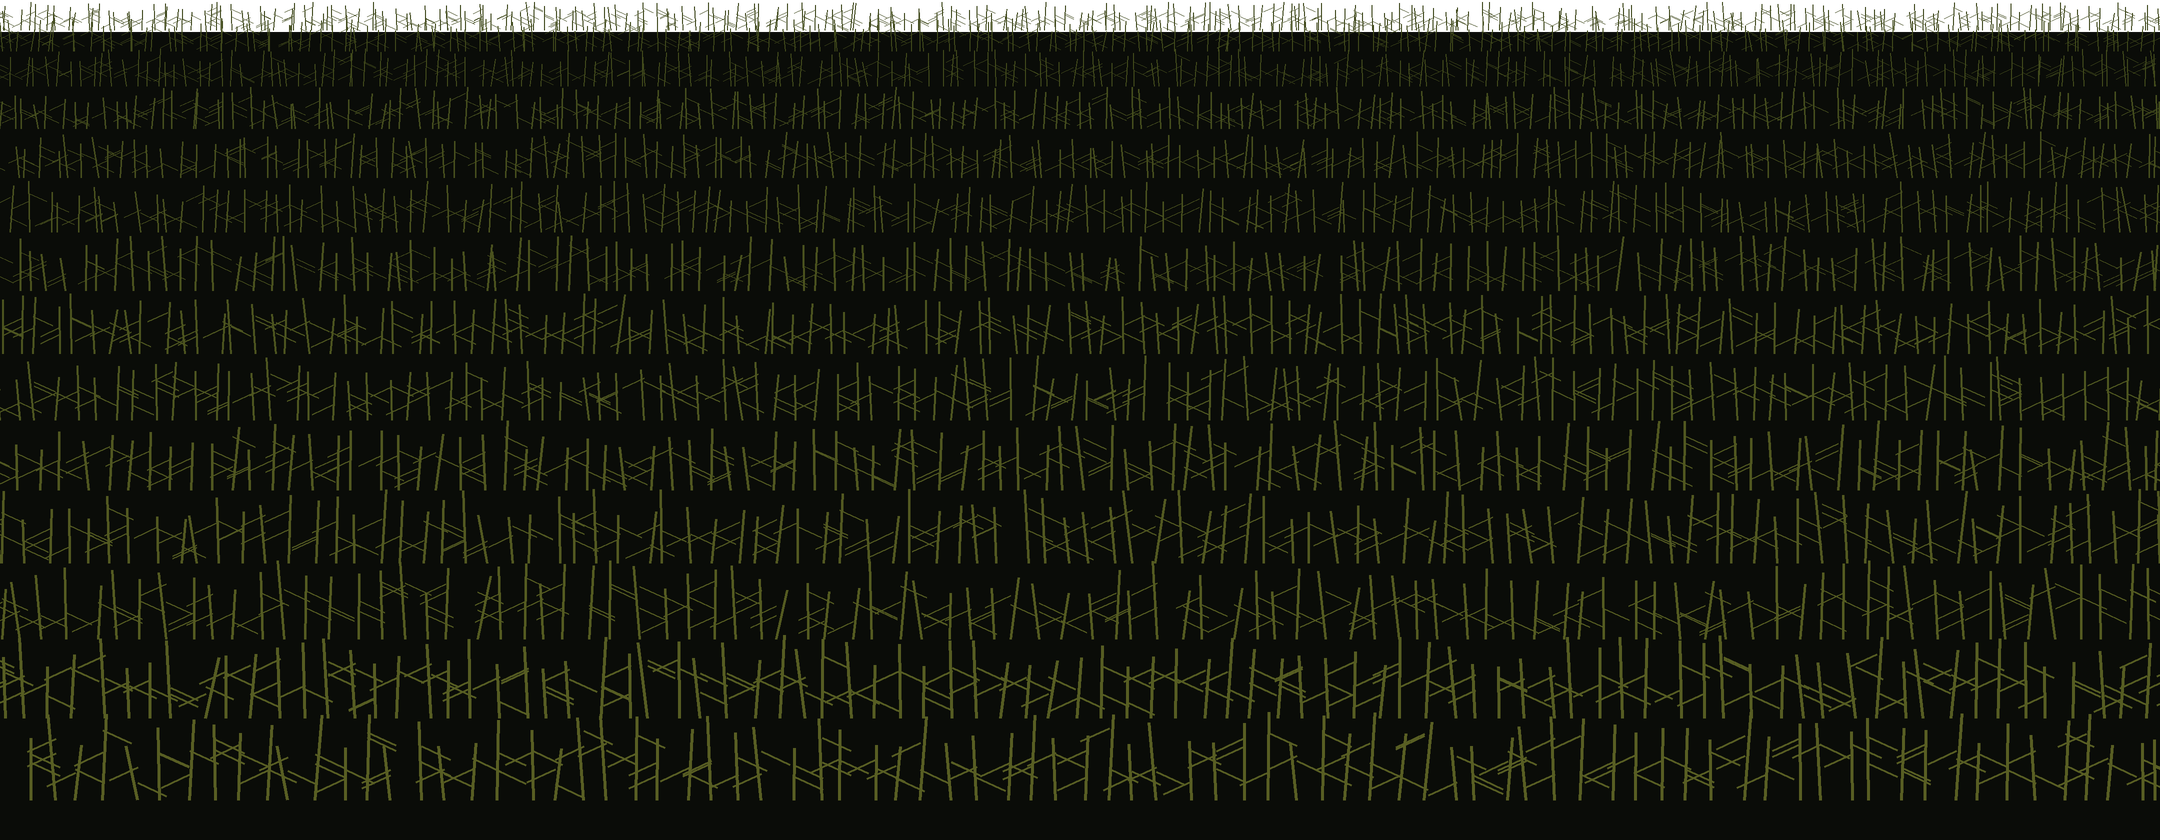
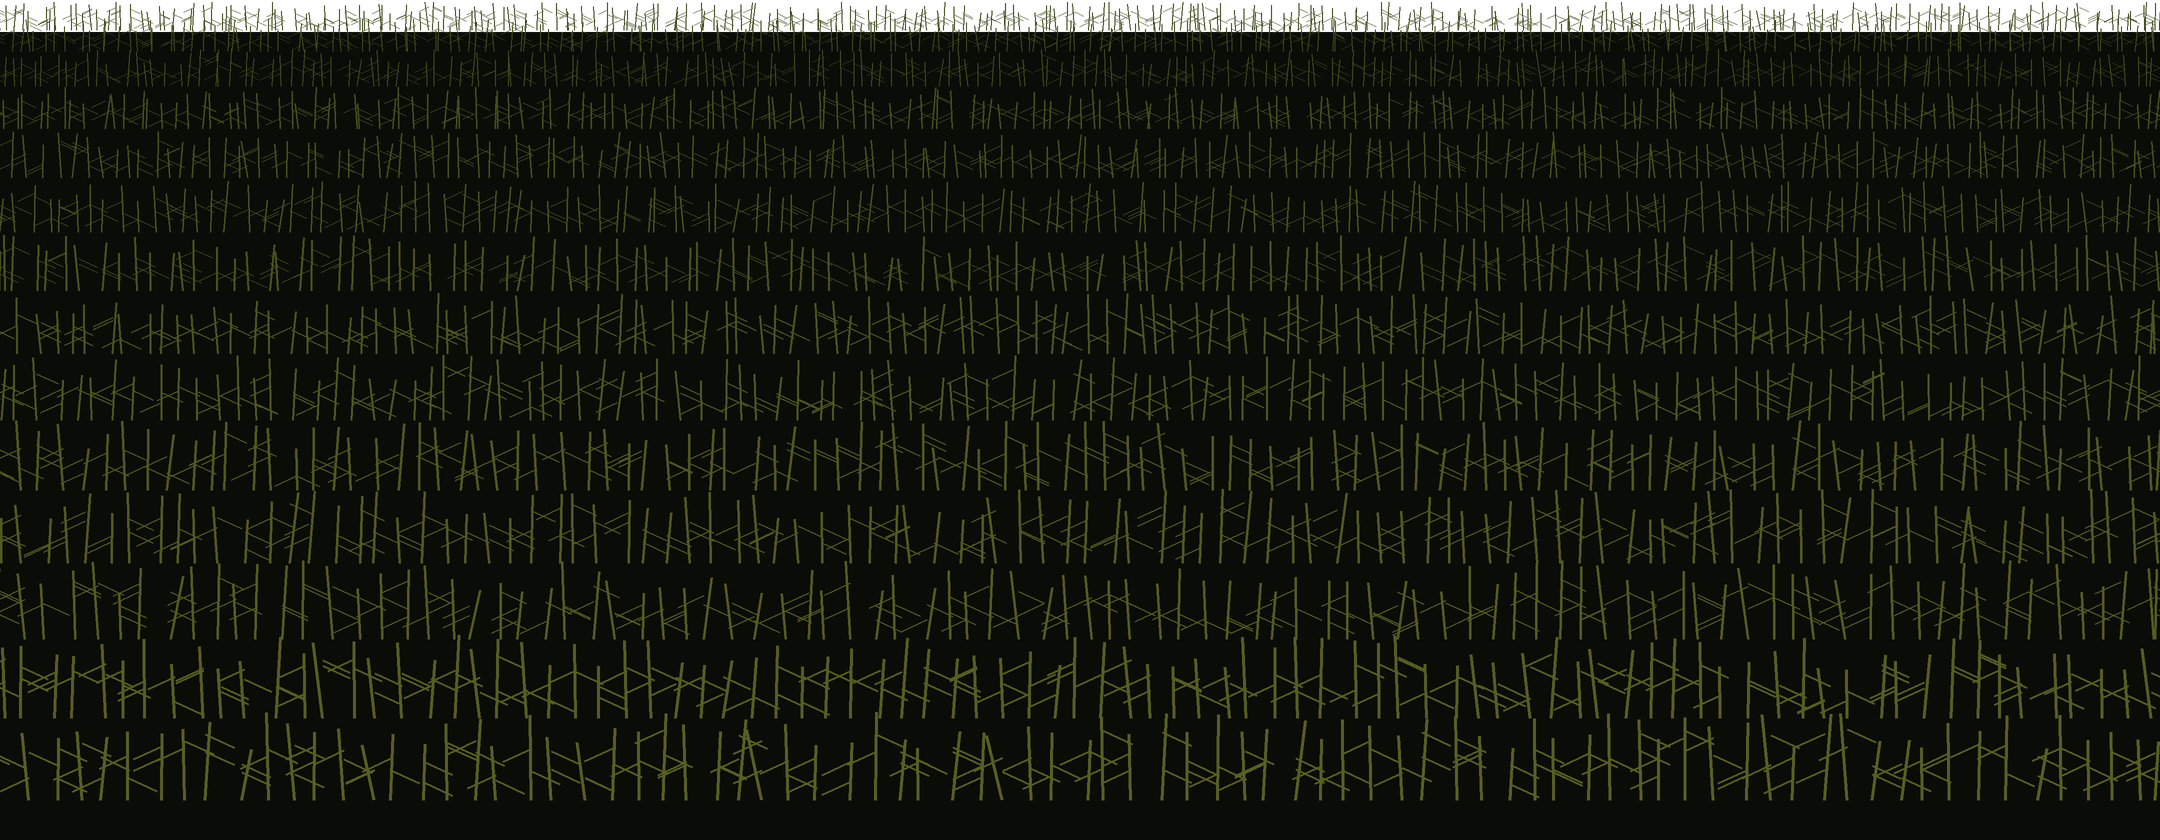
ig: 허수아비를 달빛에 밝게(테두리·지푸라기·뒤 번짐)
Claude-Session: https://claude.ai/code/session_01RCovqCTjag3WJkZFny7UQu

Changed region(s): [[0.0, 0.0, 1.0, 0.9595]]

diff --git a/tools/ig/templates/reel-scare.html b/tools/ig/templates/reel-scare.html
@@ -36,7 +36,8 @@ html,body{width:1080px;height:1920px;background:#000;overflow:hidden;font-family
 .hook .b{font-size:92px}.meta .t{font-family:M;color:#EFE3CC;letter-spacing:.14em}
 
 .world{position:absolute;inset:0;animation:dimw .8s 1.55s forwards}
-@keyframes dimw{to{filter:brightness(.55)}}
+@keyframes dimw{to{filter:brightness(.62)}}
+.sclight{position:absolute;inset:0;background:radial-gradient(ellipse 300px 420px at 70.5% 41%,rgba(255,236,190,.22),transparent 70%);mix-blend-mode:screen;z-index:2;pointer-events:none}
 .sky{position:absolute;inset:0;background:url(../assets/reel-scare-sky.jpg) center/cover;transform-origin:70% 40%;animation:zoom3 10.5s linear forwards}
 @keyframes zoom3{from{transform:scale(1.02)}to{transform:scale(1.18)}}
 .strip{position:absolute;left:0;right:0;background-repeat:repeat-x;animation:run var(--sp) linear infinite}
@@ -58,7 +59,7 @@ html,body{width:1080px;height:1920px;background:#000;overflow:hidden;font-family
 @keyframes shk{0%{translate:0 0}25%{translate:-14px 8px}50%{translate:12px -10px}75%{translate:-8px -6px}}
 .crashfl{position:absolute;inset:0;background:#fff4dc;opacity:0;z-index:21}
 @keyframes fp{0%{opacity:0}15%{opacity:1}100%{opacity:0}}@keyframes fall{0%{opacity:0;transform:translate(0,0) rotate(0)}8%{opacity:1}100%{opacity:.9;transform:translate(120px,2000px) rotate(540deg)}}</style></head><body><div class="stage">
-<div class="world" id="world"><div class="sky"></div><div class="strip far"></div><div class="strip road"></div><div class="beam"></div><div class="car"></div><div class="smoke"></div><div class="smoke" style="left:300px;animation-delay:.9s"></div><div class="strip near"></div></div><div class="crashfl" id="cf"></div><script>setTimeout(()=>{document.querySelector(".car").style.transition="transform .15s";document.querySelector(".car").style.animation="none";document.querySelector(".car").style.transform="rotate(-6deg) translate(-20px,-6px)"},4550);setTimeout(()=>{const w=document.getElementById("world");w.classList.add("stopped","crash");document.querySelector(".stage").classList.add("shk");const f=document.getElementById("cf");f.style.opacity=.85;f.style.transition="opacity .5s";requestAnimationFrame(()=>requestAnimationFrame(()=>f.style.opacity=0))},4700);</script><div class="grain"></div><div class="flick"></div>
+<div class="world" id="world"><div class="sky"></div><div class="strip far"></div><div class="strip road"></div><div class="beam"></div><div class="car"></div><div class="smoke"></div><div class="smoke" style="left:300px;animation-delay:.9s"></div><div class="strip near"></div></div><div class="sclight"></div><div class="crashfl" id="cf"></div><script>setTimeout(()=>{document.querySelector(".car").style.transition="transform .15s";document.querySelector(".car").style.animation="none";document.querySelector(".car").style.transform="rotate(-6deg) translate(-20px,-6px)"},4550);setTimeout(()=>{const w=document.getElementById("world");w.classList.add("stopped","crash");document.querySelector(".stage").classList.add("shk");const f=document.getElementById("cf");f.style.opacity=.85;f.style.transition="opacity .5s";requestAnimationFrame(()=>requestAnimationFrame(()=>f.style.opacity=0))},4700);</script><div class="grain"></div><div class="flick"></div>
 <div class="hook pale"><div class="a">한밤의 시골길,</div><div class="b acc">옥수수밭만 끝없이</div></div>
 <div class="w pale" style="top:560px;font-size:62px;--t:1.9s">미국 서부 어느 지역</div>
 <div class="w pale" style="top:660px;font-size:74px;--t:2.8s">차를 타고 이동 중에..</div>

diff --git a/tools/ig/drawings/south_reels.py b/tools/ig/drawings/south_reels.py
@@ -28,7 +28,8 @@ FX = {
  # 옥수수밭 사이 흙길을 달린다(먼 밭·길·가까운 밭이 서로 다른 속도로 흘러감, 차는 덜컹). 4.55초 휘청 → 4.7초 쾅, 모든 게 멈추고 연기
  "scare": """
 .world{position:absolute;inset:0;animation:dimw .8s 1.55s forwards}
-@keyframes dimw{to{filter:brightness(.55)}}
+@keyframes dimw{to{filter:brightness(.62)}}
+.sclight{position:absolute;inset:0;background:radial-gradient(ellipse 300px 420px at 70.5% 41%,rgba(255,236,190,.22),transparent 70%);mix-blend-mode:screen;z-index:2;pointer-events:none}
 .sky{position:absolute;inset:0;background:url(../assets/reel-scare-sky.jpg) center/cover;transform-origin:70% 40%;animation:zoom3 10.5s linear forwards}
 @keyframes zoom3{from{transform:scale(1.02)}to{transform:scale(1.18)}}
 .strip{position:absolute;left:0;right:0;background-repeat:repeat-x;animation:run var(--sp) linear infinite}
@@ -74,7 +75,7 @@ FX = {
 }
 LAYER = {"bokdo": '<div class="cam"><div class="scene"></div><div class="el l"></div><div class="el r"></div></div><div class="lamp"></div>',
          "sagwi": '<div class="scene"></div><div class="moon"></div>',
-         "scare": '<div class="world" id="world"><div class="sky"></div><div class="strip far"></div><div class="strip road"></div><div class="beam"></div><div class="car"></div><div class="smoke"></div><div class="smoke" style="left:300px;animation-delay:.9s"></div><div class="strip near"></div></div><div class="crashfl" id="cf"></div>'
+         "scare": '<div class="world" id="world"><div class="sky"></div><div class="strip far"></div><div class="strip road"></div><div class="beam"></div><div class="car"></div><div class="smoke"></div><div class="smoke" style="left:300px;animation-delay:.9s"></div><div class="strip near"></div></div><div class="sclight"></div><div class="crashfl" id="cf"></div>'
                   + '<script>setTimeout(()=>{document.querySelector(".car").style.transition="transform .15s";document.querySelector(".car").style.animation="none";document.querySelector(".car").style.transform="rotate(-6deg) translate(-20px,-6px)"},4550);'
                   + 'setTimeout(()=>{const w=document.getElementById("world");w.classList.add("stopped","crash");document.querySelector(".stage").classList.add("shk");const f=document.getElementById("cf");f.style.opacity=.85;f.style.transition="opacity .5s";requestAnimationFrame(()=>requestAnimationFrame(()=>f.style.opacity=0))},4700);</script>',
          "kono": '<div class="scene"></div><div class="neon"></div>',

diff --git a/tools/ig/drawings/south_moods.py b/tools/ig/drawings/south_moods.py
@@ -270,14 +270,25 @@ def scare_drive():
         t = y / 1100; d.line([P(0, y), P(W, y)], fill=(int(lerp(8, 70, t ** 2)), int(lerp(12, 46, t ** 2)), int(lerp(26, 40, t ** 2))), width=S)
     d.ellipse([P(700, 230), P(860, 390)], fill=(236, 228, 200))
     d.rectangle([P(0, 1100), P(W, H)], fill=(10, 12, 8))
-    sx, sy = 760, 700; K = (6, 6, 8)
+    sx, sy = 760, 700; K = (58, 48, 38)                                         # 달빛 받은 허수아비(검은 실루엣보다 밝게)
     d.line([P(sx, sy - 40), P(sx, 1180)], fill=K, width=12 * S)
     d.line([P(sx - 150, sy + 40), P(sx + 150, sy + 30)], fill=K, width=10 * S)
     d.polygon([P(sx - 70, sy + 20), P(sx + 70, sy + 20), P(sx + 90, sy + 260), P(sx + 40, sy + 240), P(sx, sy + 270), P(sx - 50, sy + 245), P(sx - 92, sy + 262)], fill=K)
     d.ellipse([P(sx - 52, sy - 70), P(sx + 52, sy + 30)], fill=K)
     d.polygon([P(sx - 110, sy - 40), P(sx + 110, sy - 44), P(sx + 40, sy - 70), P(sx + 20, sy - 150), P(sx - 30, sy - 150), P(sx - 44, sy - 72)], fill=K)
+    L = (190, 170, 130)                                                            # 달빛 테두리(위·오른쪽)
+    d.arc([P(sx - 52, sy - 70), P(sx + 52, sy + 30)], 250, 60, fill=L, width=4 * S)
+    d.line([P(sx + 20, sy - 150), P(sx + 40, sy - 70), P(sx + 110, sy - 44)], fill=L, width=4 * S)
+    d.line([P(sx + 70, sy + 20), P(sx + 90, sy + 260)], fill=L, width=4 * S)
+    d.line([P(sx, sy + 34), P(sx + 150, sy + 28)], fill=L, width=3 * S)
+    for k in range(18):                                                            # 지푸라기 결
+        x = sx + rng.uniform(-80, 80); y = sy + rng.uniform(40, 250)
+        d.line([P(x, y), P(x + rng.uniform(-6, 6), y + rng.uniform(14, 30))], fill=(120, 100, 70), width=2 * S)
+    for k in range(3): d.line([P(sx - 26 + k * 4, sy - 34), P(sx - 14 + k * 4, sy - 22)], fill=(20, 16, 14), width=4 * S)   # 꿰맨 눈
+    for k in range(3): d.line([P(sx + 12 + k * 4, sy - 34), P(sx + 24 + k * 4, sy - 22)], fill=(20, 16, 14), width=4 * S)
     a = arr(im)
     a += np.array([60, 50, 46]) * (np.exp(-((YY - 1110) / 90) ** 2) * (0.6 + 0.4 * sm(120, 11)))[..., None] * .8
+    a += np.array([120, 110, 90]) * np.exp(-(((XX - 770) / 240) ** 2 + ((YY - 760) / 330) ** 2))[..., None] * .45   # 허수아비 뒤 달빛 번짐
     finish(a * .9, "reel-scare-sky.jpg", (1.02, 0.96, 0.9), 7, (620, 900))
     # 2) 옥수수 띠(가로 2160, 좌우 이어지게): 먼 줄 / 가까운 줄
     def corn(rows, name, y0, scale0, scale1, dark):
